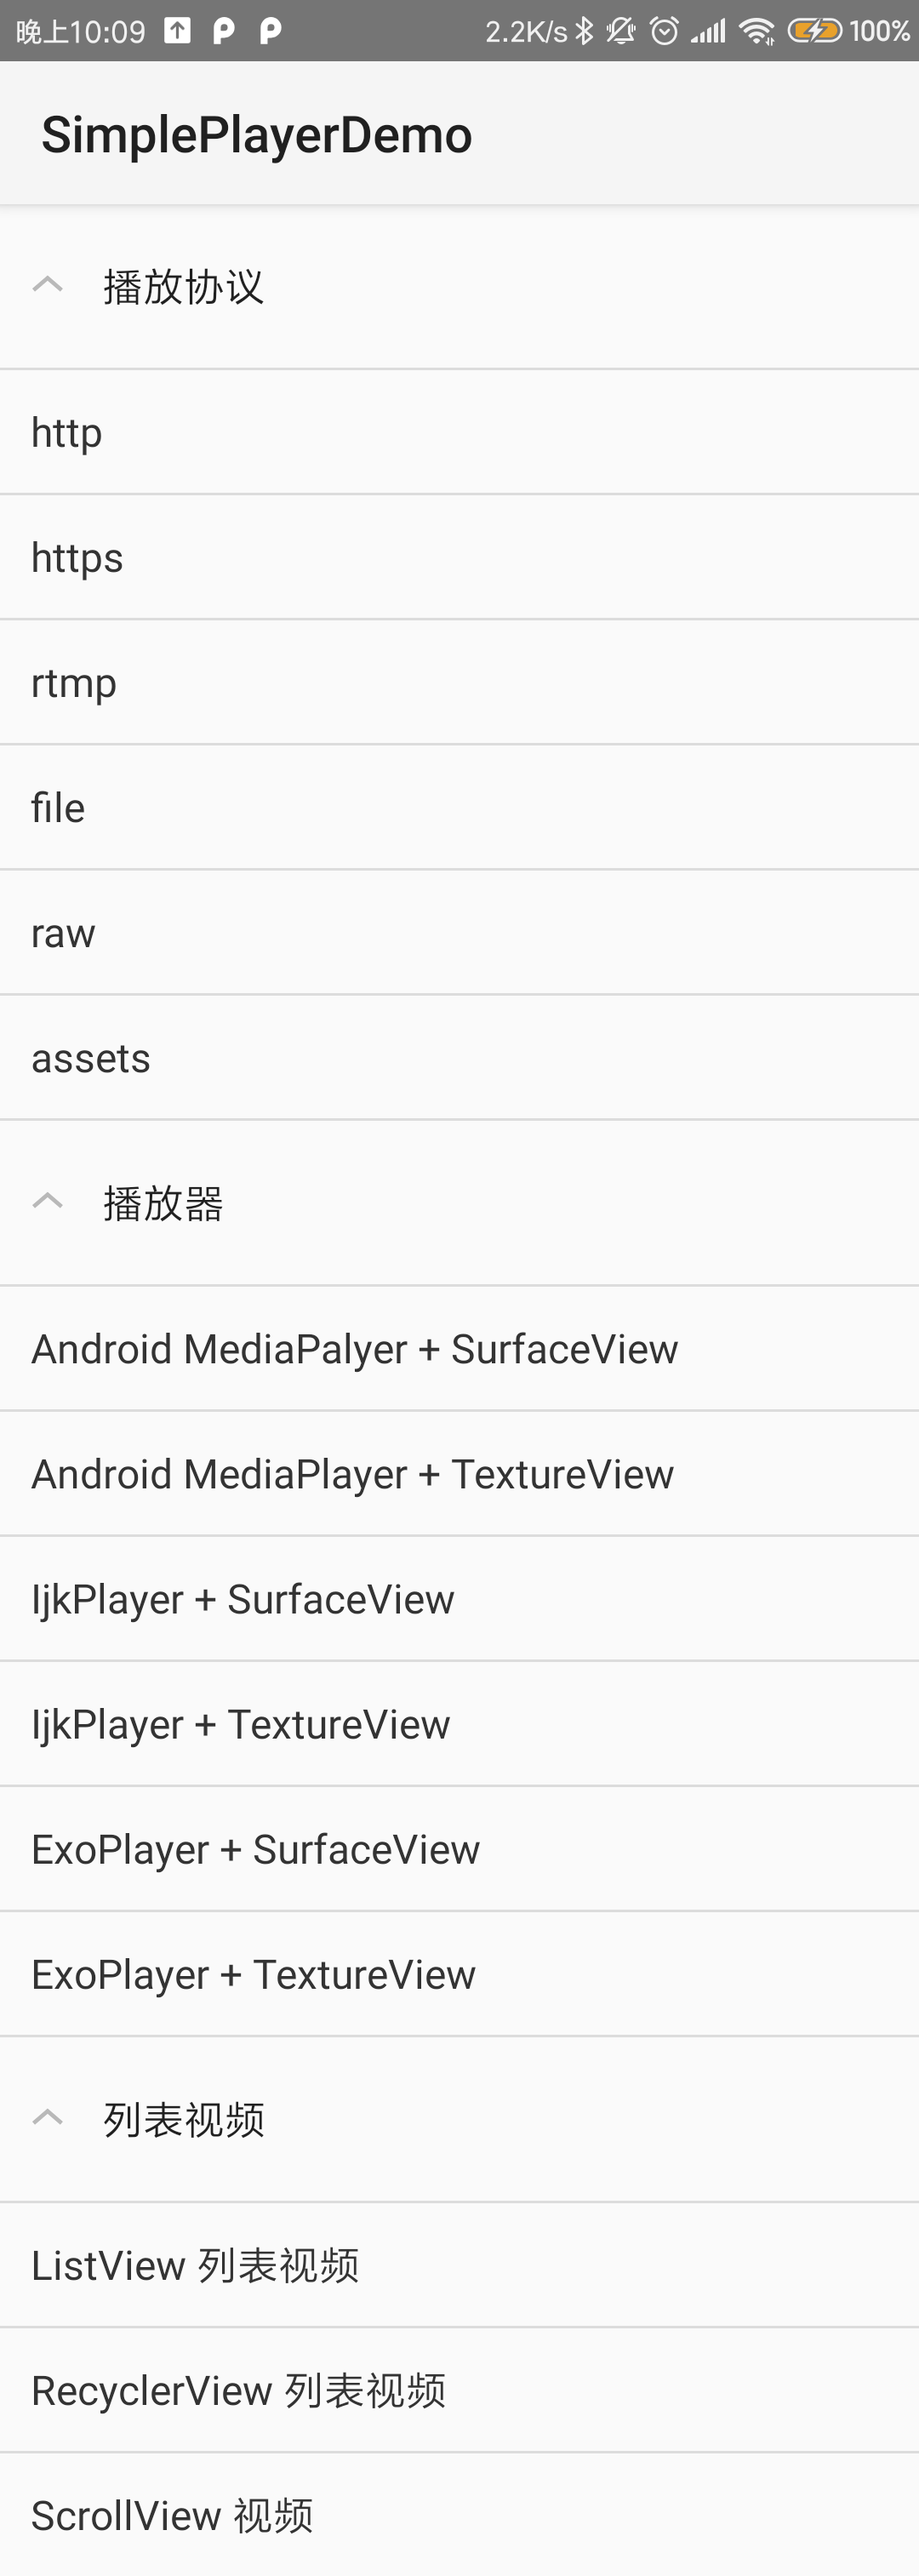
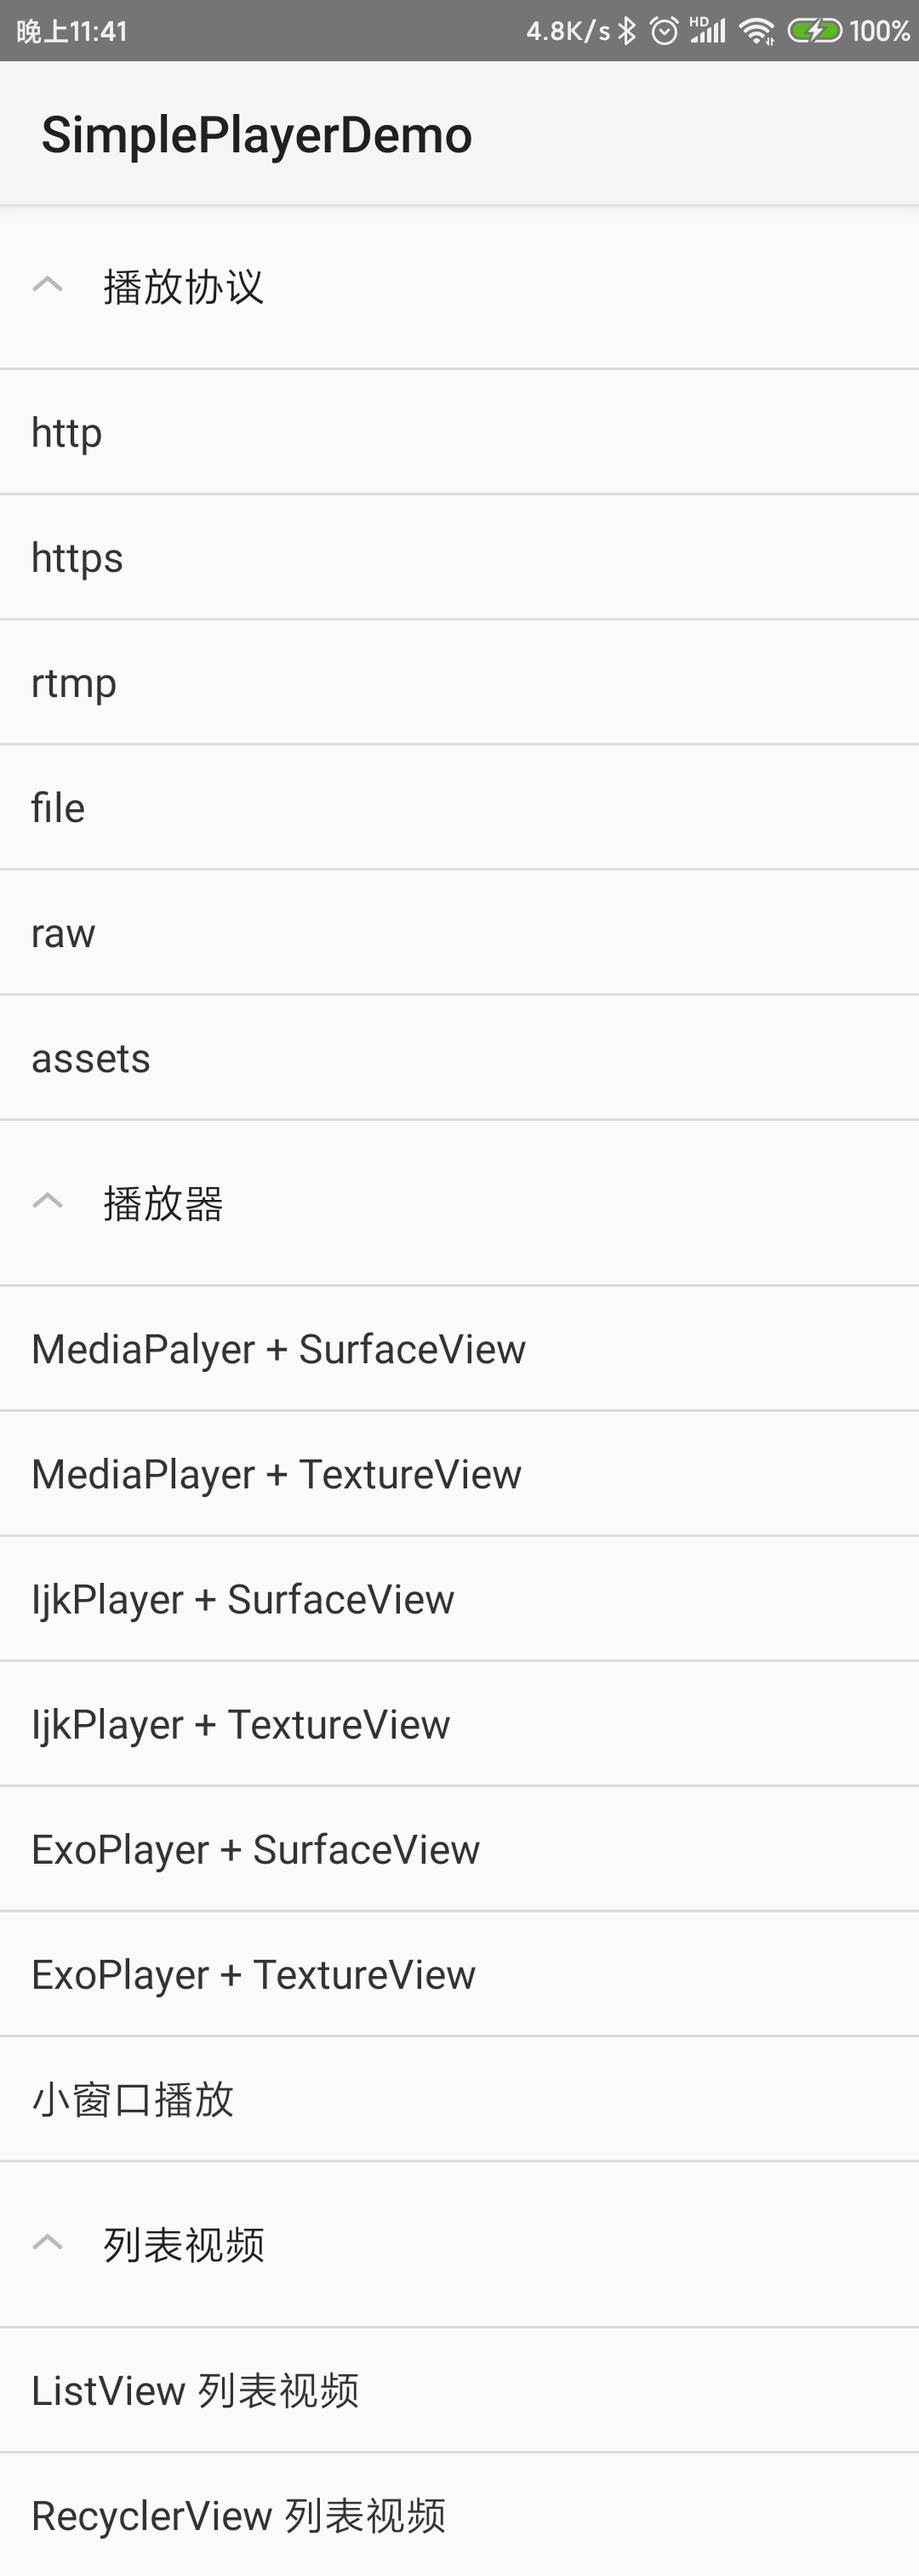
更新readme

diff --git a/README.md b/README.md
@@ -4,24 +4,23 @@
 [![](https://jitpack.io/v/zhouteng0217/SimplePlayer.svg)](https://jitpack.io/#zhouteng0217/SimplePlayer)
 
 ## 特性
-* 播放核心和播放界面分离，扩展性好
-* 支持手势调节音量，亮度，播放进度
+* 播放器控制层，播放器渲染层，播放器核心分离，可以灵活自定义界面和更换播放器核心
+* 支持SurfaceView和TextureView播放
+* 支持[ijkplayer](https://github.com/bilibili/ijkplayer)播放核心扩展, 默认Android原生播放器播放
+* 支持[ExoPlayer](https://github.com/google/ExoPlayer)播放核心扩展
+* 支持http,https,rtmp((限ijkplayer和exoplayer模块)),file, assets,raw等播放协议
+* 支持手势调节音量，亮度，播放进度，锁定播放界面
 * 支持竖屏全屏和横屏全屏，以及根据宽高比自动实现全屏策略
 * 支持根据重力感应自动旋转屏幕全屏等操作
-* 支持调整视频画面比例
+* 支持自定义视频画面高宽比例
 * 支持在ListView和RecyclerView中播放，全屏等操作
-* 支持SurfaceView和TextureView播放
-* 支持[ijkplayer](https://github.com/bilibili/ijkplayer)播放扩展, 默认Android原生播放器播放
-* 支持[ExoPlayer](https://github.com/google/ExoPlayer)播放扩展
-* 支持rtmp播放(限ijkplayer和exoplayer模块)
-* 支持播放本地视频，raw和assets视频
-* 可以灵活自定义播放界面和播放核心
+* 支持小窗口播放，可以灵活定制小窗口样式
 
 ## Demo截图
 
-|  |  |  |  
-|:--:|:--:|---:|
-|![](https://raw.githubusercontent.com/zhouteng0217/SimplePlayer/master/app/src/main/assets/01.png)|![](https://raw.githubusercontent.com/zhouteng0217/SimplePlayer/master/app/src/main/assets/02.png)|![](https://raw.githubusercontent.com/zhouteng0217/SimplePlayer/master/app/src/main/assets/03.png)|
+|  |  |  |   |
+|:--:|:--:|---:|:--:|
+|![](https://raw.githubusercontent.com/zhouteng0217/SimplePlayer/master/app/src/main/assets/01.png)|![](https://raw.githubusercontent.com/zhouteng0217/SimplePlayer/master/app/src/main/assets/02.png)|![](https://raw.githubusercontent.com/zhouteng0217/SimplePlayer/master/app/src/main/assets/03.png)|![](https://raw.githubusercontent.com/zhouteng0217/SimplePlayer/master/app/src/main/assets/04.png)|
 
 ## 使用
 
@@ -32,7 +31,12 @@ allprojects {
     repositories {
         maven { url "https://jitpack.io" }
         jcenter()
+        
+        //国外使用google仓库
         google()
+       
+        //国内可以使用阿里云的google镜像
+        maven {url 'http://maven.aliyun.com/nexus/content/repositories/google'}
     }
 }
 ```
@@ -43,20 +47,20 @@ allprojects {
 dependencies {
    
    //核心依赖，必需，提供默认的原生MediaPlayer播放支持和标准的播放界面
-   implementation 'com.github.zhouteng0217.SimplePlayer:core:1.0.4'
+   implementation 'com.github.zhouteng0217.SimplePlayer:core:1.0.5'
    
    //ijkplayer扩展依赖, 要支持ijiplayer必需添加这两个依赖
-   implementation 'com.github.zhouteng0217.SimplePlayer:ijkplayer:1.0.4'
-   implementation 'com.github.zhouteng0217.SimplePlayer:ijkplayer-armv7a:1.0.4'
+   implementation 'com.github.zhouteng0217.SimplePlayer:ijkplayer:1.0.5'
+   implementation 'com.github.zhouteng0217.SimplePlayer:ijkplayer-armv7a:1.0.5'
    
    //ijkplayer的其余的处理器架构so库支持依赖,根据需要添加
-   implementation 'com.github.zhouteng0217.SimplePlayer:ijkplayer-armv5:1.0.4'
-   implementation 'com.github.zhouteng0217.SimplePlayer:ijkplayer-arm64:1.0.4'
-   implementation 'com.github.zhouteng0217.SimplePlayer:ijkplayer-x86:1.0.4'
-   implementation 'com.github.zhouteng0217.SimplePlayer:ijkplayer-x86_64:1.0.4'
+   implementation 'com.github.zhouteng0217.SimplePlayer:ijkplayer-armv5:1.0.5'
+   implementation 'com.github.zhouteng0217.SimplePlayer:ijkplayer-arm64:1.0.5'
+   implementation 'com.github.zhouteng0217.SimplePlayer:ijkplayer-x86:1.0.5'
+   implementation 'com.github.zhouteng0217.SimplePlayer:ijkplayer-x86_64:1.0.5'
    
    //如需要支持ExoPlayer播放器，需添加以下依赖
-   implementation 'com.github.zhouteng0217.SimplePlayer:exoplayer:1.0.4'
+   implementation 'com.github.zhouteng0217.SimplePlayer:exoplayer:1.0.5'
 
 }
 ```
@@ -66,10 +70,10 @@ dependencies {
 ### 3.在xml布局中引入
 
 ```
-<com.zt.simpleplayer.view.StandardVideoView
-    android:id="@+id/video_view"
-    android:layout_width="match_parent"
-    android:layout_height="200dp" />
+    <com.zt.core.view.StandardVideoView
+        android:id="@+id/video_view"
+        android:layout_width="match_parent"
+        android:layout_height="200dp" />
 ```
 
 ### 4.正常模式下视频播放
@@ -88,6 +92,7 @@ protected void onCreate(Bundle savedInstanceState) {
             .fullScreenMode(PlayerConfig.AUTO_FULLSCREEN_MODE)
             .renderType(PlayerConfig.RENDER_TEXTURE_VIEW)
             .looping(true)
+            .aspectRatio(aspectRatio) //设置画面高宽比，默认自适应
             .player(new IjkPlayer(this))  //IjkPlayer需添加对应的依赖
             .build();
     videoView.setPlayerConfig(playerConfig);
@@ -209,9 +214,22 @@ play.setOnClickListener(new View.OnClickListener() {
 });
 ```
 
-也可以通继承StandardVideoView, BaseVideoView， ListVideoView来实现自定义各个界面，可以通过继承BasePlayer来实现自定义播放器核心。
+### 8.小窗口模式
 
-### 8.混淆Proguard
+具体查看Demo中FloatVideoActivity
+
+### 9.关于自定义播放器核心和自定义播放器播放界面
+
+本项目中整个播放器库，分为三层， ```BaseVideoView```(播放器控制层，播放器画面上的各种控制按钮等所在那一层),```RenderContainerView```(播放器画面层,包裹中播放器画面的容器), ```BasePlayer```(播放器核心层，主要是播放器的播放逻辑层)。
+
+```BaseVideoView```通过```addRenderContainer```将```RenderContainerView```层添加进来，```RenderContainerView```创建```BasePlayer```, 这样三层联系起来了。
+
+自定义播放器核心，只需要继承```BasePlayer```, 实现其中抽象方法即可。
+
+自定义播放器界面，只需要继承````BaseVideoVIew```, 实现其中抽象方法，加载自己的定义的布局即可。
+
+
+### 10.混淆Proguard
 
 ```
 # ijkplayer模块需添加此proguard
